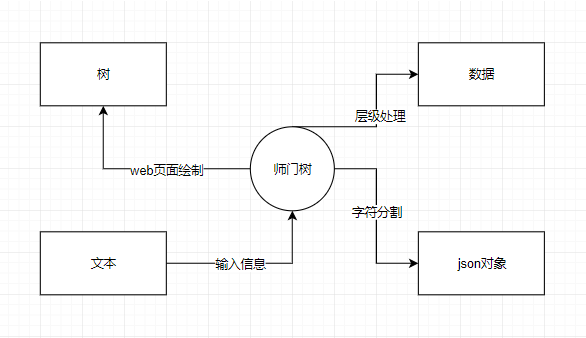
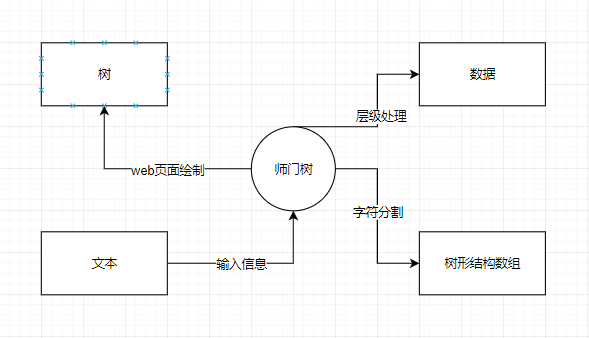
readme

diff --git a/new_tree.js b/new_tree.js
@@ -1,0 +1,191 @@
+
+function trans(){
+    var first = [];
+    var second = [];
+    var third = [];
+	var textt=0;
+	var ajob = [];
+	var s_name=[];
+	var data=[];
+    var dat = document.getElementById("tree").value;
+	first = dat.split("\n\n\n");
+	
+	for(var i = 0;i<first.length;i++)
+	{//console.log(data);
+		second = first[i].split("\n\n");
+		third=second[0].split("\n");
+		
+		//console.log(third);
+		var flogg=0;  //表示不需要关联
+		var ss=third[0].split("：");
+		var t_name=ss[1];
+		for(var j = 0;j<third.length;j++)
+		{
+			
+			ajob=third[j].split("：");
+			var job = ajob[0];
+			var name1 = ajob[1];
+			
+			//console.log(s_name);
+			if(job=="导师")
+			{
+				for(var ii=0;ii<s_name.length;ii++)
+				{
+					if(name1==s_name[ii])
+					{
+						flogg=1;
+					}
+					else{
+						continue;
+					}
+				}
+				if(flogg==0)
+				{
+					s_name=[];
+					data=[];
+					data.push({name:name1,value:"导师",sj:"-"});
+				}
+				
+				
+			}
+			else
+			{
+				
+				if(flogg == 0){
+					
+					var childd = name1.split("、");
+					
+					data.push({name:job,value:job,sj:"导师"});
+					
+				}
+				else{
+					
+					var childd = name1.split("、");
+					//console.log(childd);
+					
+					data.push({name:job,value:job,sj:t_name});
+				}
+				for(var k=0;k<childd.length;k++)
+					{
+						s_name.push(childd[k]);
+						data.push({name:childd[k],value:childd[k],sj:job});
+					}
+			}
+		}
+		//console.log(data);
+		for(var j = 1;j<second.length;j++)
+		{
+			var ajob1=second[j].split("：");
+			var name11=ajob1[0];
+			var jineng=ajob1[1].split("、");
+			//
+			//console.log(name11);
+			for(var k=0;k<jineng.length;k++)
+			{
+				data.push({name:jineng[k],value:jineng[k],sj:name11});
+			}
+		}
+		
+		//
+		
+		var treeData=[];
+		var nname="";
+		var dw=compare(data);
+		nname=i.toString()+"tree";
+		treeData = transData(dw, 'value', 'sj', 'children');
+		drawTree(treeData,nname);
+		console.log(dw);
+		//document.write("\n");
+	}
+	
+}
+
+
+
+ 
+/**2.数据处理成层级关系的数据***/ 
+function transData(a, idStr, pidStr, childrenStr) {
+	var r = [], hash = {}, id = idStr, pid = pidStr, children = childrenStr, i = 0, j = 0, len = a.length;
+	for (; i < len; i++) {
+		hash[a[i][id]] = a[i];
+	}
+	for (; j < len; j++) {
+		var aVal = a[j], hashVP = hash[aVal[pid]];
+		if (hashVP) {
+			!hashVP[children] && (hashVP[children] = []);
+			hashVP[children].push(aVal);
+		} else {
+			r.push(aVal);
+		}
+	}
+	return r;
+}
+ 
+/**
+ *3. 画树
+ */
+function drawTree(treeData,nname="") {
+	var  myChart = echarts.init(document.getElementById(nname));//div元素节点的对象
+	myChart.setOption({
+		tooltip : {
+			trigger : 'item',
+			triggerOn : 'mousemove'
+		},
+		series : [ {
+			type : 'tree',
+			name : 'TREE_ECHARTS',
+			data : treeData,
+			top : '2%',
+			left : '10%',
+			bottom : '2%',
+			right : '15%',
+			symbolSize : 7,
+			label : {
+				normal : {
+					position : 'left',
+					verticalAlign : 'middle',
+					align : 'right'
+				}
+			},
+			leaves : {
+				label : {
+					position : 'right',
+					verticalAlign : 'middle',
+					align : 'left'
+				}
+			},
+			expandAndCollapse : true ,
+			initialTreeDepth : 2 //展示层级数,默认是2
+		} ]
+	});
+	
+
+}
+//删除数组中重复元素
+ function compare(arr) {
+      var result = [], isfl;
+      for (var i = 0; i < arr.length; i++) {
+		  isfl=false;
+         for (var j = 0; j < i; j++) {
+              if (arr[i].name ===arr[j].name&&arr[i].sj ===arr[j].sj) {   
+                  isfl = true;
+				  break;
+				  }
+              }
+		 for (var j = i+1; j < arr.length; j++) {
+              if (arr[i].name ===arr[j].name&&arr[i].sj ===arr[j].sj) {   
+                  isfl = true;
+                 break;
+              }	  
+			  
+		 
+         }
+         if (!isfl) {
+             result.push(arr[i]);
+         }
+    
+        
+ }
+	return result;
+
+ }

diff --git a/index.html b/index.html
@@ -16,6 +16,7 @@
 		strong{
 			color:chocolate;
 		}
+		
 	</style>
 </head>
 <body>

diff --git a/README.md b/README.md
@@ -1,1 +1,42 @@
 # 031802304-031802321
+
+- ## Catalogue and Using Instruction 目录和使用说明
+  - #### 目录
+   - index.html（主页）
+   - treeEchart.js （字符分割与树的建立）
+   - echarts.js  echarts.min.js （节点操作）
+   - test.txt （测试数据）
+   - Readme.md （目录与使用说明）
+
+  - #### 使用说明
+  - ##### 操作
+      1.到仓库中（仓库地址：https://github.com/Chensfve/031802304-031802321）下载目录中文件
+      2.打开index.html（请使用Chrome），点击文本框，按照以下的文本格式输入数据
+  - ##### 文本格式
+      学术家族树以文本形式输入，点击提交文本框，考虑学术家族树的文本格式是这样的：
+```
+导师：张三
+2016级博士生：天一、王二、吴五
+2015级硕士生：李四、王五、许六
+2016级硕士生：刘一、李二、李三
+2017级本科生：刘六、琪七、司四
+
+刘六：JAVA、数学建模
+
+李二：字节跳动、京东云
+
+
+导师：张森
+2016级博士生：天一、王二、吴无
+2015级硕士生：李四、王误、许六
+2016级硕士生：刘亦、李尔、李三
+2017级本科生：刘陆、琪七、司四
+
+刘陆：Python、数学建模
+
+李尔：字节跳动、阿里云
+```
+
+      输出：
+        输出为树状结构，非叶节点可伸缩扩张，深色的节点表示可以扩张
+<br>
